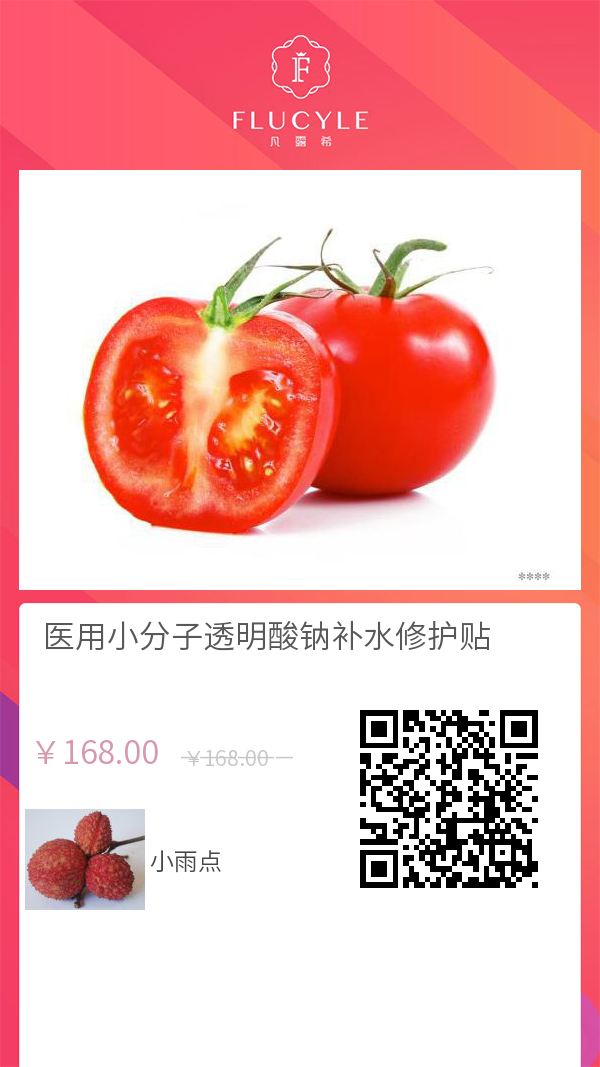
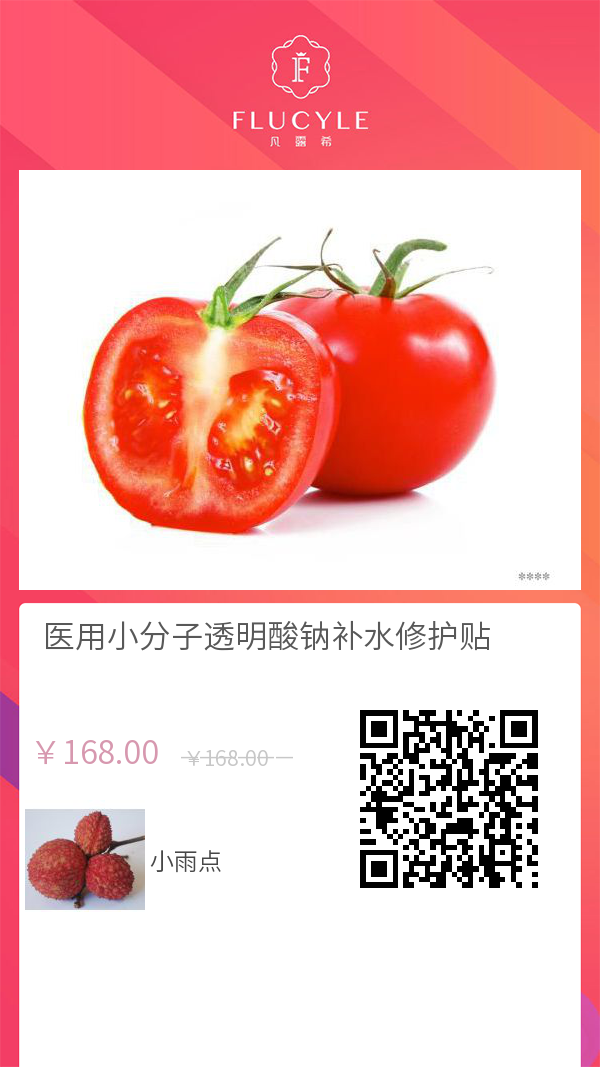
修改二维码大小

Changed region(s): [[0.6, 0.6495, 0.9, 0.8351]]

diff --git a/application/common.php b/application/common.php
@@ -2561,7 +2561,7 @@ function goods_qrcode($url='',$goods_id='0')
     $level = 'L';
     $tmp = explode('/',$url);
     if(count($tmp) > 10){
-        $size =5;
+        $size =4.8;
     }else{
         $size =5.4;
     }
